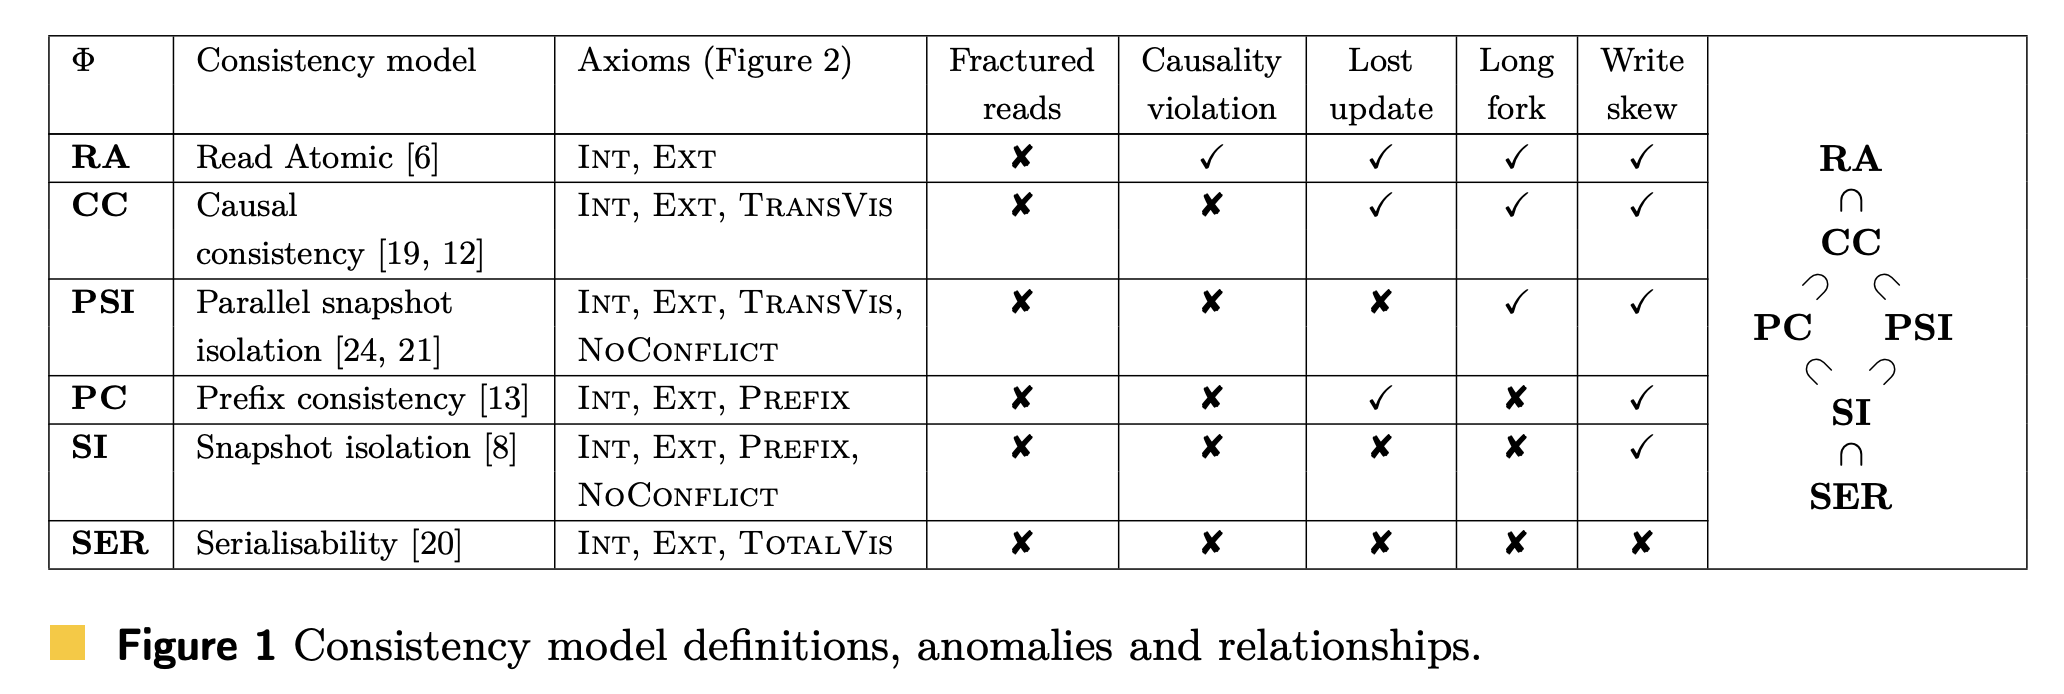
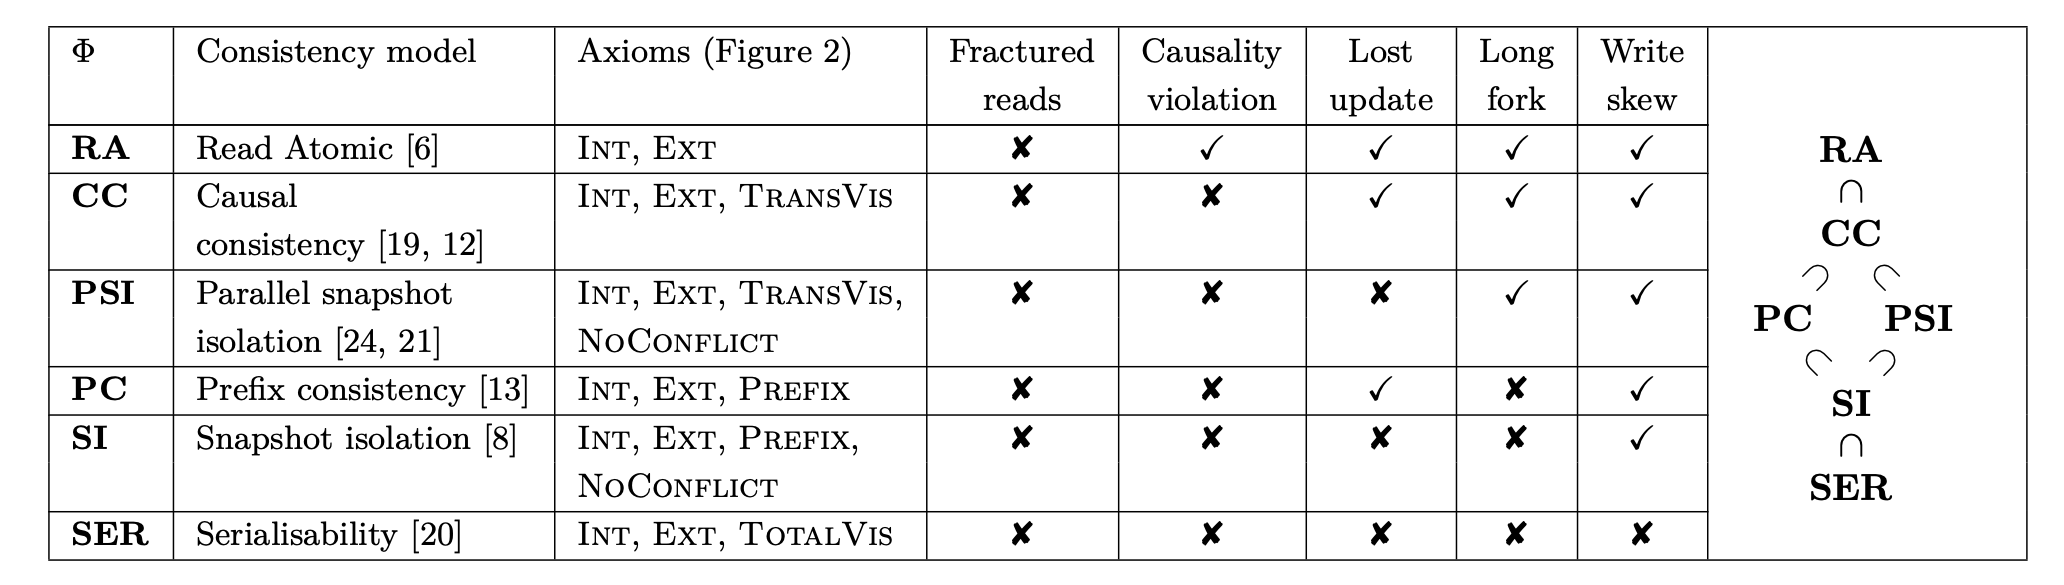
save

diff --git a/_drafts/2025-03-17-transaction-isolation-models.md b/_drafts/2025-03-17-transaction-isolation-models.md
@@ -4,7 +4,7 @@ title:  "Modern Views of Transaction Isolation"
 categories: formal-methods specification
 ---
 
-Transaction isolation is a dense topic with a lot of history. There have been many attempts over the years to formalize various isolation concepts, but it is not always clear to what extent these new attempts have clarified things or just introduced new layers of complexity and notation to the domain. The rise of distributed systems and the need to reason about isolation in these contexts has worsened the problem over the past decade or so.
+Transaction isolation is a dense topic with a lot of history. There have been many attempts over the years to formalize various isolation concepts, thought [it is not always clear](https://dl.acm.org/doi/pdf/10.1145/3035918.3056096) to what extent these attempts have clarified things or just introduced new layers of complexity and notation. The rise of distributed systems and the need to reason about isolation in these contexts has worsened the problem over the past decade or so.
 
 If we want to say anything precise about transaction isolation, we need some formal model in which to reason about it. There are, however, a host of different formalisms that all approach the problem from subtly different angles, with different goals, notation, frameworks, etc. ([Adya](https://pmg.csail.mit.edu/papers/adya-phd.pdf), [Cerone](https://drops.dagstuhl.de/storage/00lipics/lipics-vol042-concur2015/LIPIcs.CONCUR.2015.58/LIPIcs.CONCUR.2015.58.pdf), [Crooks](https://dl.acm.org/doi/10.1145/3087801.3087802)). It is helpful, then, to try to understand the common underyling concepts between any of these formalisms.
 
@@ -26,7 +26,7 @@ We can keep this "read-centric" view in mind in context of some of the modern fo
 
 There are two notable, modern models of transaction isolation that try to capture some of this intuition formally: the [2015 model of Cerone et al.](https://drops.dagstuhl.de/storage/00lipics/lipics-vol042-concur2015/LIPIcs.CONCUR.2015.58/LIPIcs.CONCUR.2015.58.pdf) and the subsequent [Crooks 2017 client-centric model](https://dl.acm.org/doi/10.1145/3087801.3087802).
 
-If we consider transaction isolation under the above, "read-centric" view, then when we think about how to define an isolation level, we should first be concerned with how we define *what values a transaction can read*. If our isolation level makes no restrictions on this, then a transaction can read any value (in practice what a level like *read uncommitted* may give you). More sensibly, we would expect a transaction to read states that are *reasonable*, in some sense. More concretely, we should expect that transactions actually read values written by other transactions. This could, in fact, be one possible isolation definition (similar to *read committed*), but is stronger than allowing transactions to read *any* value. 
+If we consider transaction isolation under the above, "read-centric" view, then when we think about how to define an isolation level, we should first be concerned with how we define *what values a transaction can read*. If our isolation level makes no restrictions on this, then a transaction can read any value (in practice how you might define a level like *read uncommitted*). More sensibly, we would expect a transaction to read states that are *reasonable*, in some sense. More concretely, we should expect that transactions actually read values written by other transactions. This could, in fact, be one possible isolation definition (similar to *read committed*), and a step up in strength from allowing transactions to read any possible value. 
 
 There are some other reasonable constraints, though. Basically, we likely expect that the possible states we read from came about through some "reasonable" execution of the transactions we gave to the database. One "reasonable" type of execution would be to execute these transactions in some sequential order. This is, for example, what we would expect out of a database system if we gave it a series of transactions one-by-one, with no concurrent overlapping between transactions.
 
@@ -60,12 +60,12 @@ A consistency model (e.g. isolation level) is then defined as a set of *consiste
 
 
 
-The weakest isolation level they define, *Read Atomic*, imposes only the *internal* and *external* consistency conditions. 
+The weakest isolation level they define, *Read Atomic*, imposes only two conditions: *internal* and *external* consistency. 
 
 - $$I\small{NT}$$ (internal consistency): read from an object returns the same value as the last write to or read from this object in the transaction.
 - $$E\small{XT}$$ (external consistency): the value returned by an external read in $$T$$ is determined by the transactions $$\mathsf{VIS}$$-preceding $$T$$ that write to $$x$$. If there are no such transactions, then $$T$$ reads the initial value 0. Otherwise it reads the final value written by the last such transaction in $$\mathsf{AR}$$.
 
-Internal consistency is the less interesting condition, stating simply that you read your own writes within a transaction. External consistency is the more important condition, stating that a transaction will read the value written by the latest transaction preceding it in the visibility relation, with conflicts decided by the arbitration relation.
+Internal consistency is a bit tedious from a formal perspective and is the less interesting condition, stating simply that you read your own writes within a transaction. External consistency is the more important condition and depends on the visibility relation, stating that a transaction will read the value written by the latest transaction preceding it in the visibility relation, with conflicts decided by the arbitration relation.
 <!-- Other than that, though, there are no real restrictions.  -->
 
 <!-- For example, transactions could observe the effect of two different transactions in different orders, or even violate causality (e.g. by reading from the future?). This very weak transaction level is helpful to understand the model.  -->
@@ -82,13 +82,18 @@ The underlying model does require the visibility relation to be acyclic, but the
 </div>
 
 
-Moving up the isolation hierarchy from *Read Atomic*, we start strengthening requirements on what transactions can observe. In this paper, this starts by adding the transitivity condition on visibility ($$T{\small{RANS}}V{\small{IS}}$$), to get *Causal Consistency*, which is then extended to *Parallel Snapshot Isolation (PSI)* and *Prefix Consistency*, two levels that are not strictly comparable in the hierarchy. Note that the $$C\small{ONFLICT}$$ condition enforced at PSI is the first condition that does not make a restriction on the values *observed by reads*. Rather, it places conditions on valid cases of conflicting writes between transactions.  transactions 
+Moving up the isolation hierarchy from *Read Atomic*, we start strengthening requirements on what the reads in transactions can observe. In this paper, this starts first by adding a transitivity condition on visibility ($$T{\small{RANS}}V{\small{IS}}$$), to get *Causal Consistency*, which is then extended to *Parallel Snapshot Isolation (PSI)* and *Prefix Consistency*, two levels that are not strictly comparable to each other in the hierarchy (see <a href="#fig2">Figure 2</a>). Note that the $$C\small{ONFLICT}$$ condition enforced at PSI is the first condition that does not make a restriction on the values *observed by reads*. Rather, it places conditions on valid cases of conflicting writes between transactions. 
 
+
+<figure style="text-align: center" id="fig2">
 <div style="text-align: center">
 <img src="/assets/fig1-framework-atomic-viz.png" alt="Transaction Isolation Models" width=770>
 </div>
+<figcaption>Figure 2: Consistency models in the Cerone framework.</figcaption>
+</figure>
 
-Also, there is a notable transition between PSI and Prefix Consistency + Snapshot Isolation (SI) which is the switch from a *partial* to *total* required on the visibility relation. Basically, the $$P\small{REFIX}$$ condition requires that if $$T$$ observes $$S$$, then it also observes all $$AR$$ predecessors of $$S$$. In the example below, which illustrates the *long fork* anomaly of PSI, transactions $$T_3$$ and $$T_4$$ can be considered to observe the effects of $$T_1$$ and $$T_2$$ in "different orders" i.e. for $$T_3$$ it appears as if $$T_1 \rightarrow T_2$$, but for $$T_4$$ the opposite is true.
+
+Also, there is a notable transition between PSI and Prefix Consistency + Snapshot Isolation (SI) which is related to a switch from a *partial* to *total* ordering requirements on the visibility relation. Basically, the $$P\small{REFIX}$$ condition requires that if $$T$$ observes $$S$$, then it also observes all $$AR$$ predecessors of $$S$$. In the example below, which illustrates the *long fork* anomaly of PSI, transactions $$T_3$$ and $$T_4$$ can be considered to observe the effects of $$T_1$$ and $$T_2$$ in "different orders" i.e. for $$T_3$$ it appears as if $$T_1 \rightarrow T_2$$, but for $$T_4$$ the opposite is true.
 
 <figure style="text-align: center">
 <img src="/assets/diagrams/txn-isolation/txnvis1-LongFork.drawio.svg" alt="Transaction Isolation Models" width=330 style="display: block; margin-left: auto; margin-right: auto;">
@@ -99,7 +104,7 @@ Under the $$P\small{REFIX}$$ condition, the arbitration ordering between $$T_1$$
 
 If you move all the way to serializability, then the conditions simply become strengthened to $$T{\small{OTAL}}V{\small{IS}}$$, requiring simply that $$VIS$$ is a total order (along with $$I\small{NT}$$ and $$E\small{XT}$$ conditions).
 <!-- > Is there a way to alternatively specify serializability in terms of SI + prevention of write skew? Instead of saying it is just "total ordering of visibility relation"? (Will's Question) Can we specify it in terms of NoReadWriteConflict? instead of NoConflict (which is specific to write conflicts)? -->
-If we look at [A Critique of Snapshot Isolation](https://arxiv.org/abs/2405.18393), this offers another approach to formalizing serializability, though. That is, we instead alter snapshot isolation to prevent *read-write* conflicts instead of *write-write* conflicts. That is, if a transaction's read set is written to by a concurrent transaction, then we must abort it. This is an alternative way to formalize serializability i.e. instead of specifying it as 
+If we look at [A Critique of Snapshot Isolation](https://arxiv.org/abs/2405.18393), though, this offers another approach to formalizing serializability. That is, we instead alter snapshot isolation to prevent *read-write* conflicts instead of *write-write* conflicts i.e. if a transaction's read set is written to by a concurrent transaction, then we must abort it. This is an alternative way to formalize serializability i.e. instead of specifying it as 
 
 $$
 INT \wedge EXT \wedge {P\small{REFIX}} \wedge NOCONFLICT
@@ -120,13 +125,7 @@ Does this also mean the SI actually rules out some serializable executions?
 
 <!-- One transaction T3 reads a value written by another transaction T2 that must have observed T1, but T3 does not observe T1's effect. (i.e. if you observe something, and another transaction observes that, it should also reflect effect of all things you observed.) -->
 
-----
-
-Note that the *read atomic* isolation model (the weakest in this formalism) can be viewed as an interesting "boundary" in isolation strength since, for something like *read committed* you only need to ensure that reads within a transaction of a key $$k$$ read the value written by *some* other transaction to key $$k$$. But, in the weakest sense, there may be no restriction on a notion of reading from a "consistent" state across keys. So, the weakest interpretation of read committed might be simply that any read can read any value that was written to that key at some point by any transaction in the history. This doesn't even impose any notion of ordering on transactions, since you really only care about your consistency guarantees at the level of a single key.
-
-
-Note that the read atomic model was actually first introduced in [Bailis' 2014 paper](http://www.bailis.org/papers/ramp-sigmod2014.pdf) on RAMP transactions. Note that Read Atomic is something similar to Snapshot Isolation but with an allowance for concurrent updates (e.g. allows write-write conflicts). This was preceded by their earlier proposal of [*monotonic atomic view*](https://www.vldb.org/pvldb/vol7/p181-bailis.pdf) which is strictly weaker than Read Atomic.
-
+Note that the *read atomic* isolation model (the weakest expressed in the Cerone formalism) can be viewed as an interesting "boundary" in isolation strength since, for something like *read committed* you only need to ensure that reads within a transaction of a key $$k$$ read the value written by *some* other transaction to key $$k$$. But, in the weakest sense, there may be no restriction on a notion of reading from a "consistent" state across keys. So, the weakest interpretation of read committed might be simply that any read can read any value that was written to that key at some point by any transaction in the history. This doesn't even impose any notion of ordering on transactions, since you really only care about your consistency guarantees at the level of a single key. The Read Atomic model was actually first presented in [Bailis' 2014 paper](http://www.bailis.org/papers/ramp-sigmod2014.pdf) on RAMP transactions. Note that Read Atomic is something similar to Snapshot Isolation but with an allowance for concurrent updates (e.g. does not prevent write-write conflicts). This was preceded by their earlier proposal of [*Monotonic Atomic View*](https://www.vldb.org/pvldb/vol7/p181-bailis.pdf) isolation which is strictly weaker than Read Atomic.
 
 
 
@@ -147,16 +146,16 @@ The basic idea of this formalism is centered around a *state-based* or *client-c
 
 This is ultimately quite similar to the Cerone view, since the visibility relation ($$\mathsf{VIS}$$) serves a similar purpose i.e. by basically picking out which transactions writes are visible to you. Cerone doesn't formulate this in terms of "read states" as Crooks does, but essentially the same idea is present i.e. the "read state" in the Cerone model is created by the application of your $$\mathsf{VIS}$$-preceding transactions.
 
-Crooks does also have a technial difference from the Cerone model, in that it allows expression of weaker models like *Read Committed*, since it does not make the assumption of *atomic visibility* that Cerone does. It does this by allowing each read operation of a transaction to potentially read from a *different* read state, allowing for expression of the fractured reads anomaly the Cerone cannot represent.
+Crooks does also have a technical difference from the Cerone model, in that it allows expression of weaker models like *Read Committed*, since it does not make the assumption of *atomic visibility* that Cerone does. It does this by allowing each read operation of a transaction to potentially read from a *different* read state, allowing for expression of the fractured reads anomaly the Cerone cannot represent.
 
-Crooks is also naturally able to represent *Read Atomic*, though. The formal definition (as shown in <a href="#fig2">Figure 2</a>) is somewhat dense (note that $$sf_o$$ represents the first read state for an operation $$o$$), but intuitively it is simplying saying that if an operation $$o$$ observes the writes of a transaction $$T_i$$, all subsequent operations reading a key in $$T_i$$'s write set must read from a state that include $$T_i$$'s effects.
-
-<figure style="text-align: center" id="fig2">
+<figure style="text-align: center" id="fig3">
 <div style="text-align: center;padding:5px;">
 <img src="/assets/crooks-commit-tests.png" alt="Transaction Isolation Models" width=630>
 </div>
-<figcaption>Figure 2: Execution of transactions with associated read states in Crooks model.</figcaption>
+<figcaption>Figure 3: Execution of transactions with associated read states in Crooks model.</figcaption>
 </figure>
+
+Crooks is also naturally able to represent *Read Atomic*, though. The formal definition (as shown in <a href="#fig3">Figure 3</a>) is somewhat dense (note that $$sf_o$$ represents the first read state for an operation $$o$$), but intuitively it is simplying saying that if an operation $$o$$ observes the writes of a transaction $$T_i$$, all subsequent operations reading a key in $$T_i$$'s write set must read from a state that include $$T_i$$'s effects.
 
 
 While Crooks and Cerone models are kind of different on the surface and in their formal details, they can really be viewed as quite similar in their core ideas, which are about first establishing what possible values a transaction can read!
@@ -164,20 +163,13 @@ While Crooks and Cerone models are kind of different on the surface and in their
 
 Note that we can nearly map Cerone's model to Crooks' model as well. If we consider the $$AR$$ total order of Cerone, we could view this as the "execution order" required in the Crooks model, which is also a total order of transactions. Then, the $$VIS$$ relation of Cerone is akin to the *selection of read states* in Crooks' model. That is, each transaction in the chosen total order picks out some transactions that are visible to it, and reads values in accordance. In Crooks' model, based on the read state you pikc, the transactions visible to you (As in Cerone) would simply be all the transactions preceding that read state. And the total ordering of Crooks can then be used as the $$AR$$ arbitration ordering in Cerone's model.
 
----------------------------
+### Read vs. Write Restrictions
 
-<br>
-
-## Read vs. Write Restrictions
-
-A core aspect of the above models is how we define and formalize the values that transactions are able to *read*. But the values that a transaction can read dont capture the full picture of isolation definitions. Other than the values a transaction reads, what other restrictions are there to be made? Well, we may want to prevent a transaction from doing certain writes if they may break some "semantic" guarantees (which need to be defined a bit more carefully).
-
+A core aspect of the above models is how we define and formalize the values that transactions are able to *read*. But the values that a transaction can read don't capture the full picture of isolation definitions. Other than the values a transaction reads, what other restrictions are there to be made? Well, we may want to prevent a transaction from doing certain writes if they may break some "semantic" guarantees (which need to be defined a bit more carefully).
 **Up to certain isolation level strength, transactions will commit regardless of what they write, as long as their reads satisfy the appropriate validity conditions.** At snapshot isolation and stronger, though, we start to require transactions to abort in some cases based on what they *write*.
+This manifests notably in the write conflict condition for snapshot isolation, and also in the alternative, read-write conflict condition that we can use to make a serializable snapshot.
 
-
-
-
-Also, *why* does snapshot isolation actually need to enforce write-write conflict checking? If it didn't, how would this be observable to other transaction reads?
+Why does snapshot isolation really need to enforce write-write conflict checking? If it didn't, how would this be observable to other transaction reads?
 
 ```
 t1: r(x,init) w(y,1) w(z, 1)
